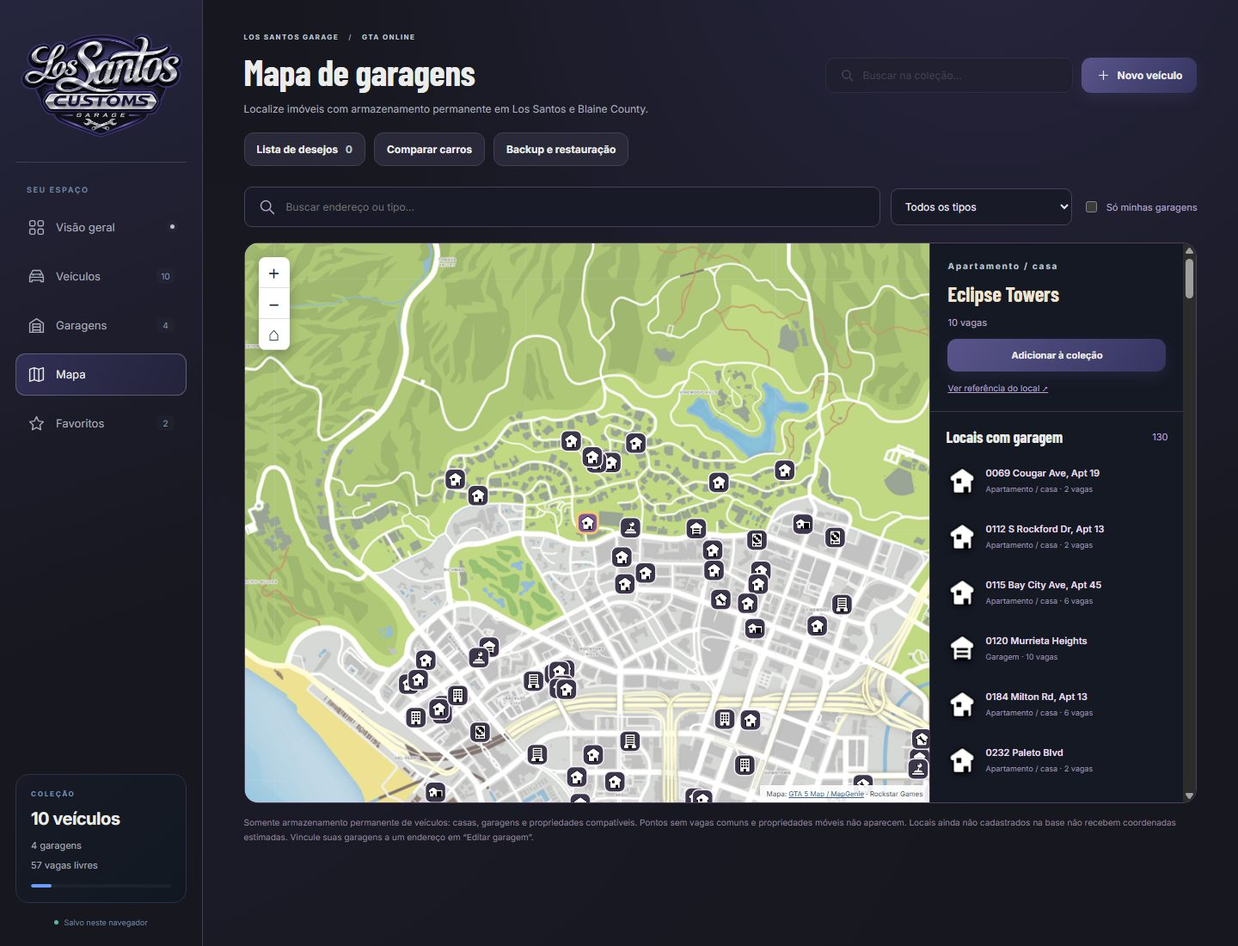
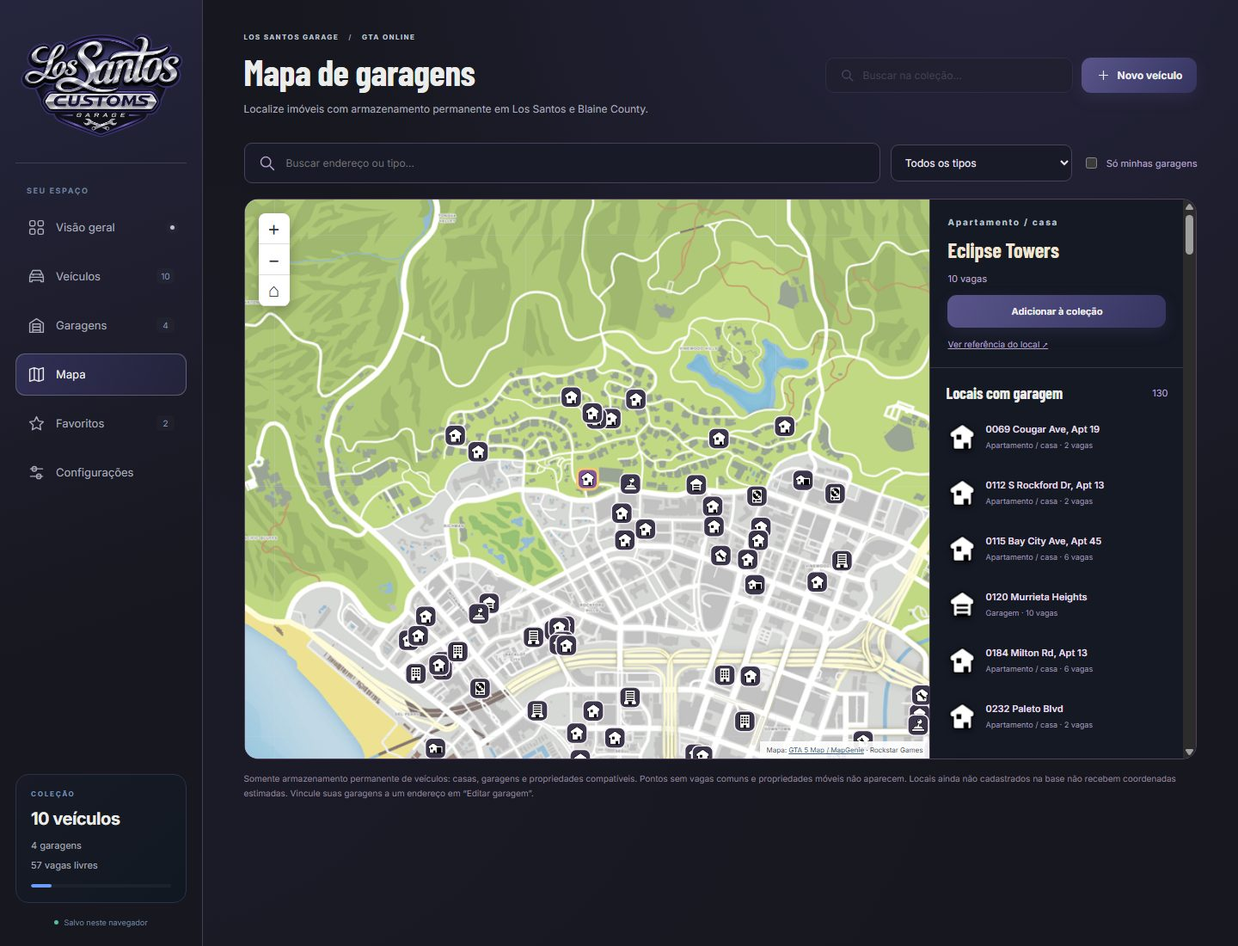
feat: centraliza backup e preferencias na pagina de configuracoes

diff --git a/collection-plus.js b/collection-plus.js
@@ -10,14 +10,20 @@ const downloadFile = (blob, name) => {
 function plusDialog(id, title, body) {
   document.body.insertAdjacentHTML("beforeend", `<dialog id="${id}" class="plus-dialog" aria-labelledby="${id}Title"><div class="dialog-form"><div class="dialog-heading"><h2 id="${id}Title">${title}</h2><button type="button" class="icon-button" data-plus-close="${id}" aria-label="Fechar">×</button></div>${body}</div></dialog>`);
 }
-$(".collection-toolbar").insertAdjacentHTML("beforebegin", `<div class="plus-bar"><label>Coleção / personagem<select id="collectionProfile" aria-label="Coleção ativa"></select></label><button type="button" class="secondary-button" id="manageProfiles">Gerenciar perfis</button><button type="button" class="secondary-button" id="undoCollection" disabled>Desfazer última alteração</button><button type="button" class="secondary-button" id="installApp" hidden>Instalar aplicativo</button><span id="offlineStatus" class="tool-hint" role="status"></span></div><section class="plus-notice" id="storageNotice" role="status" hidden><p id="storageNoticeText"></p><div class="plus-actions"><button type="button" class="secondary-button" id="downloadLocalCopy">Baixar minha cópia</button><button type="button" class="secondary-button" id="downloadStoredCopy">Baixar original salvo</button><button type="button" class="secondary-button" id="loadOtherTab">Carregar versão salva</button><button type="button" class="secondary-button" id="recoverCollection">Recuperar última versão válida</button></div></section><section class="plus-notice" id="backupReminder" hidden><p>Proteja esta coleção: baixe um backup. As cópias locais também podem ser apagadas ao limpar os dados do navegador.</p><button type="button" class="secondary-button" id="reminderBackup">Abrir backup</button></section>`);
+$("#settingsProfileControls").insertAdjacentHTML("beforeend", `<label>Coleção / personagem<select id="collectionProfile" aria-label="Coleção ativa"></select></label><button type="button" class="secondary-button" id="manageProfiles">Gerenciar perfis</button>`);
+$("#settingsAppControls").insertAdjacentHTML("beforeend", `<button type="button" class="secondary-button" id="installApp" hidden>Instalar aplicativo</button><span id="offlineStatus" class="tool-hint" role="status"></span>`);
+$(".vehicle-display-tools").insertAdjacentHTML("beforeend", `<button type="button" class="secondary-button" id="undoCollection" title="Desfazer última alteração na coleção" disabled>Desfazer</button>`);
+$(".collection-toolbar").insertAdjacentHTML("beforebegin", `<section class="plus-notice" id="storageNotice" role="status" hidden><p id="storageNoticeText"></p><button type="button" class="secondary-button" id="reviewStorageSettings">Revisar nas configurações</button></section>`);
+$("#settingsSection").append($("#backupPanel"));
+$("#backupPanel").hidden=false;
+$("#backupPanel .dialog-form").insertAdjacentHTML("afterbegin", `<section class="plus-notice" id="backupReminder" hidden><p>Proteja esta coleção: baixe um backup. As cópias locais também podem ser apagadas ao limpar os dados do navegador.</p></section><section class="plus-notice" id="settingsStorageActions" hidden><p id="settingsStorageText"></p><div class="plus-actions"><button type="button" class="secondary-button" id="downloadLocalCopy">Baixar minha cópia</button><button type="button" class="secondary-button" id="downloadStoredCopy">Baixar original salvo</button><button type="button" class="secondary-button" id="loadOtherTab">Carregar versão salva</button><button type="button" class="secondary-button" id="recoverCollection">Recuperar última versão válida</button></div></section>`);
 $(".collection-toolbar").insertAdjacentHTML("beforeend", `<button type="button" class="secondary-button" id="openGoals">Metas da coleção</button>`);
 $(".stats").insertAdjacentHTML("afterend", `<p class="plus-cost" id="actualCollectionCost"></p>`);
 $("#vehicleGrid").insertAdjacentHTML("beforebegin", `<div class="plus-filters"><label>Mostrar<select id="vehicleScope"><option value="all">Todos os veículos</option><option value="unassigned">Sem garagem</option><option value="duplicates">Modelos repetidos</option><option value="projects">Com projeto de tuning</option></select></label><label>Marca<select id="vehicleBrandFilter"><option value="all">Todas as marcas</option></select></label><label>Ordenar por<select id="vehicleSort"><option value="recent">Ordem de cadastro</option><option value="name">Nome (A–Z)</option><option value="brand">Marca (A–Z)</option><option value="price-desc">Preço de catálogo: maior</option><option value="price-asc">Preço de catálogo: menor</option><option value="paid-desc">Gasto registrado: maior</option></select></label></div>`);
 $("#garageDetailActions").insertAdjacentHTML("beforeend", `<button type="button" class="secondary-button" id="shareGarage">Compartilhar garagem</button>`);
 $("#detailsNotes").insertAdjacentHTML("afterend", `<section class="plus-cost"><h2>Compra e projeto de tuning</h2><p id="vehicleProjectSummary"></p><button type="button" class="secondary-button" id="openVehicleProject">Editar custos e modificações</button></section>`);
-$("#backupDialog .dialog-form").insertAdjacentHTML("beforeend", `<section class="backup-panel"><h3>Imagens e mapa offline</h3><p class="tool-hint">O aplicativo salva as imagens visitadas automaticamente. Para levar todo o catálogo e o mapa para um lugar sem internet, baixe as imagens agora (aproximadamente 110 MB). Isso não substitui o backup da coleção.</p><button type="button" class="secondary-button" id="prepareOffline">Baixar imagens para uso offline</button><p class="tool-hint" id="offlineDownloadStatus" role="status"></p></section>`);
-$("#backupDialog .dialog-form").insertAdjacentHTML("beforeend", `<section class="backup-panel"><h3>Versão local anterior</h3><p class="tool-hint">Confira a cópia anterior à última gravação, mesmo depois de reabrir o navegador. A prévia usa a confirmação de restauração acima. Uma nova gravação atualiza essa cópia.</p><button type="button" class="secondary-button" id="previewRecovery">Conferir versão anterior</button></section>`);
+$("#settingsOfflineControls").insertAdjacentHTML("beforeend", `<section class="backup-panel"><h3>Imagens e mapa offline</h3><p class="tool-hint">O aplicativo salva as imagens visitadas automaticamente. Para levar todo o catálogo e o mapa para um lugar sem internet, baixe as imagens agora (aproximadamente 110 MB). Isso não substitui o backup da coleção.</p><button type="button" class="secondary-button" id="prepareOffline">Baixar imagens para uso offline</button><p class="tool-hint" id="offlineDownloadStatus" role="status"></p></section>`);
+$("#backupPanel .dialog-form").insertAdjacentHTML("beforeend", `<section class="backup-panel"><h3>Versão local anterior</h3><p class="tool-hint">Confira a cópia anterior à última gravação, mesmo depois de reabrir o navegador. A prévia usa a confirmação de restauração acima. Uma nova gravação atualiza essa cópia.</p><button type="button" class="secondary-button" id="previewRecovery">Conferir versão anterior</button></section>`);
 
 plusDialog("profilesDialog", "Perfis da coleção", `<p class="tool-hint">Cada perfil tem seus próprios veículos, garagens, desejos e metas. O backup exporta o perfil ativo. Crie um perfil para cada personagem ou plataforma.</p><form id="profileForm"><label>Nome do novo perfil<input id="profileName" required maxlength="100" placeholder="Ex.: Personagem 2 · PS5"></label><button class="primary-button">Criar perfil vazio</button></form><form id="renameProfileForm"><label>Renomear perfil ativo<input id="profileRename" required maxlength="100"></label><button class="secondary-button">Salvar nome</button></form><p id="profileError" class="plus-error" role="status"></p>`);
 plusDialog("projectDialog", "Compra e projeto de tuning", `<h3 id="projectVehicleName"></h3><form id="purchaseForm"><label>Preço pago pelo veículo (GTA$)<input id="purchasePrice" type="number" min="0" max="10000000000" step="0.01" placeholder="Não informado"></label><label>Outras modificações já pagas (GTA$)<input id="modificationCost" type="number" min="0" max="10000000000" step="0.01" placeholder="Não informado"></label><p class="tool-hint">Inclua aqui gastos anteriores que não estão nas tarefas abaixo. Tarefas concluídas são somadas automaticamente; não registre o mesmo gasto duas vezes.</p><button class="primary-button">Salvar custos</button></form><p id="projectBudget" class="tool-hint" role="status"></p><h3>Modificações planejadas</h3><div id="projectTasks"></div><form id="taskForm"><label>Modificação<input id="taskName" required maxlength="150" placeholder="Ex.: Motor nível 4"></label><label>Orçamento (GTA$)<input id="taskCost" type="number" min="0" max="10000000000" step="0.01" required></label><button class="secondary-button">Adicionar modificação</button></form><p id="projectError" class="plus-error" role="status"></p>`);
@@ -42,8 +48,10 @@ function organizeVehicles(vehicles) {
   return result;
 }
 function renderStorageNotice() {
-  $("#storageNotice").hidden=!storageSession.blocked;
+  $("#storageNotice").hidden=!storageSession.blocked || currentFilter==="settings";
   $("#storageNoticeText").textContent=storageSession.notice;
+  $("#settingsStorageActions").hidden=!storageSession.blocked;
+  $("#settingsStorageText").textContent=storageSession.notice;
   $("#undoCollection").disabled=storageSession.blocked || !storageSession.undo.length;
 }
 function renderEnhancements() {
@@ -62,7 +70,7 @@ function renderEnhancements() {
   renderStorageNotice();
 }
 for (const id of ["vehicleScope","vehicleBrandFilter","vehicleSort"]) $("#"+id).addEventListener("change",renderVehicles);
-$("#reminderBackup").addEventListener("click",()=>$("#openBackup").click());
+$("#reviewStorageSettings").addEventListener("click",()=>{$('[data-filter="settings"]').click();$("#settingsStorageActions").scrollIntoView({block:"center"});});
 $("#exportBackup").addEventListener("click",()=>{try{localStorage.setItem(`${STORAGE_KEY}-backup-at`,String(Date.now()));renderEnhancements();}catch{}});
 function offlineImagePaths() {
   const paths=[...Object.values(VEHICLE_IMAGES),...Object.values(PROPERTY_IMAGES),...Object.values(INTERIOR_IMAGES)].map(i=>i.image);
@@ -96,7 +104,7 @@ function applyCollectionState(next) {
   $("#searchInput").value="";$("#categoryFilter").value="all";$("#garageThemeFilter").value="all";
   $("#vehicleScope").value="all";$("#vehicleBrandFilter").value="all";$("#vehicleSort").value="recent";
   if(typeof batchSelection!=="undefined") batchSelection.clear();
-  resetBackupPreview();render();
+  clearBackupSelection();render();
 }
 $("#loadOtherTab").addEventListener("click",()=>{
   try { const next=parseCollectionBackup(localStorage.getItem(STORAGE_KEY));storageSession.blocked=false;storageSession.notice="";storageSession.undo=[];storageSession.known.set(STORAGE_KEY,localStorage.getItem(STORAGE_KEY));applyCollectionState(next);showToast("Versão salva carregada."); }

diff --git a/index.html b/index.html
@@ -29,6 +29,7 @@
     <symbol id="ui-plus" viewBox="0 0 24 24"><path d="M12 5v14M5 12h14"/></symbol>
     <symbol id="ui-arrow" viewBox="0 0 24 24"><path d="M5 12h14m-6-6 6 6-6 6"/></symbol>
     <symbol id="ui-map" viewBox="0 0 24 24"><path d="m3 5 6-2 6 2 6-2v16l-6 2-6-2-6 2V5Zm6-2v16m6-14v16"/></symbol>
+    <symbol id="ui-settings" viewBox="0 0 24 24"><path d="M4 7h16M4 17h16"/><circle cx="9" cy="7" r="3"/><circle cx="15" cy="17" r="3"/></symbol>
   </defs></svg>
   <div class="app-shell">
     <aside class="sidebar">
@@ -42,6 +43,7 @@
         <button class="nav-item" data-filter="garages" aria-label="Garagens"><svg class="ui-icon"><use href="#ui-garage"/></svg><span class="nav-label">Garagens</span><span class="nav-count" id="navGarageCount">0</span></button>
         <button class="nav-item" data-filter="map" aria-label="Mapa de garagens"><svg class="ui-icon"><use href="#ui-map"/></svg><span class="nav-label">Mapa</span></button>
         <button class="nav-item" data-filter="favorites" aria-label="Favoritos"><svg class="ui-icon"><use href="#ui-star"/></svg><span class="nav-label">Favoritos</span><span class="nav-count" id="navFavoriteCount">0</span></button>
+        <button class="nav-item" data-filter="settings" aria-label="Configurações"><svg class="ui-icon"><use href="#ui-settings"/></svg><span class="nav-label">Configurações</span></button>
       </nav>
 
       <div class="sidebar-card">
@@ -72,7 +74,6 @@
       <div class="collection-toolbar" role="group" aria-label="Ferramentas da coleção">
         <button type="button" class="secondary-button" id="openWishlist">Lista de desejos <span id="wishlistCount">0</span></button>
         <button type="button" class="secondary-button" id="openCompare">Comparar carros</button>
-        <button type="button" class="secondary-button" id="openBackup">Backup e restauração</button>
       </div>
 
       <section id="lsgBrandBanner" class="lsg-brand-banner" aria-label="Los Santos Garage"><div class="lsg-wordmark"><img class="lsg-banner-logo" src="assets/logo-los-santos-customs.png" alt="Los Santos Customs Garage" width="1536" height="1024"></div><div class="lsg-brand-caption"><span>LOS SANTOS · SAN ANDREAS</span><h2>Sua coleção.<br>Cada carro no seu lugar.</h2><small>Garagens, projetos e cultura automotiva.</small></div><span class="lsg-banner-stripe" aria-hidden="true"></span></section>
@@ -127,6 +128,21 @@
         </div>
       </section>
       <section id="mapSection" class="property-map-section" aria-label="Mapa de propriedades com garagem" hidden></section>
+      <section id="settingsSection" class="settings-page" aria-label="Configurações" hidden>
+        <div class="settings-grid">
+          <section class="settings-card" aria-labelledby="settingsProfilesTitle">
+            <p class="eyebrow">SUA COLEÇÃO</p><h2 id="settingsProfilesTitle">Perfis e personagens</h2>
+            <p class="tool-hint">Separe suas garagens por personagem ou plataforma. Cada perfil mantém sua própria coleção.</p>
+            <div id="settingsProfileControls" class="plus-bar"></div>
+          </section>
+          <section class="settings-card" aria-labelledby="settingsAppTitle">
+            <p class="eyebrow">NO SEU DISPOSITIVO</p><h2 id="settingsAppTitle">Aplicativo e acesso offline</h2>
+            <p class="tool-hint">Instale para abrir direto pela tela inicial. Você também pode usar a opção de instalação no menu do navegador.</p>
+            <div id="settingsAppControls" class="plus-actions"></div>
+            <div id="settingsOfflineControls"></div>
+          </section>
+        </div>
+      </section>
     </main>
   </div>
 
@@ -262,12 +278,12 @@
       <button type="submit" id="confirmBatchMove" class="primary-button" disabled>Confirmar transferência</button>
     </form>
   </dialog>
-  <dialog id="backupDialog" class="collection-dialog" aria-labelledby="backupTitle">
-    <div class="dialog-form"><div class="dialog-heading"><div><p class="eyebrow">SUA COLEÇÃO COM VOCÊ</p><h2 id="backupTitle">Backup e restauração</h2></div><button type="button" class="icon-button" data-close="backupDialog" aria-label="Fechar backup">×</button></div>
+  <section id="backupPanel" class="settings-card settings-backup" aria-labelledby="backupTitle" hidden>
+    <div class="dialog-form"><div><p class="eyebrow">SUA COLEÇÃO COM VOCÊ</p><h2 id="backupTitle">Backup e restauração</h2></div>
       <section class="backup-panel"><h3>Salvar uma cópia</h3><p class="tool-hint">Baixe garagens, tags, veículos, posições, favoritos, personalizações e lista de desejos em um arquivo JSON.</p><button type="button" class="primary-button" id="exportBackup">Baixar backup</button></section>
       <section class="backup-panel"><h3>Restaurar uma cópia</h3><p class="tool-hint">A restauração substitui a coleção deste navegador. Baixe um backup atual antes de continuar. Escolha um JSON de até 10 MB; o arquivo é lido apenas no seu dispositivo.</p><label>Arquivo de backup<input id="backupFile" type="file" accept=".json,application/json"></label><p id="backupPreview" class="tool-hint" role="status">Escolha um arquivo para conferir os dados antes de restaurar.</p><label class="backup-confirm"><input id="confirmBackupReplace" type="checkbox" disabled> Entendo que os dados atuais serão substituídos.</label><button type="button" id="restoreBackup" class="primary-button" disabled>Restaurar coleção</button></section>
     </div>
-  </dialog>
+  </section>
   <script src="assets/vehicle-catalog.js"></script>
   <script src="assets/vehicle-reference.js"></script>
   <script src="assets/wheel-catalog.js"></script>

diff --git a/tests/collection-check.js b/tests/collection-check.js
@@ -110,7 +110,7 @@ async function checkCollectionTools(check) {
     const collided=structuredClone(backup);collided.data.vehicles[1].parking=collided.data.vehicles[0].parking;
     const repaired=parseCollectionBackup(JSON.stringify(collided));
     check('restauração resolve colisão de vagas sem perder veículos',repaired.vehicles.length===data.vehicles.length && new Set(repaired.vehicles.filter(vehicle=>vehicle.garageId==='tools-c').map(vehicle=>vehicle.parking.slot)).size===2);
-    $('#openBackup').click();
+    $('[data-filter="settings"]').click();
     const beforeImport=JSON.stringify(data);
     await previewBackupFile(new File([JSON.stringify(backup)],'colecao.json',{type:'application/json'}));
     check('prévia de arquivo válido não altera dados',JSON.stringify(data)===beforeImport && pendingCollectionBackup && !$('#confirmBackupReplace').disabled && $('#restoreBackup').disabled);
@@ -124,14 +124,14 @@ async function checkCollectionTools(check) {
     await previewBackupFile(new File([JSON.stringify(backup)],'colecao.json',{type:'application/json'}));
     $('#confirmBackupReplace').checked=true;$('#confirmBackupReplace').dispatchEvent(new Event('change'));
     Storage.prototype.setItem=function(key,value){if(key===STORAGE_KEY)throw new DOMException('Full','QuotaExceededError');return originalSetItem.call(this,key,value);};
-    try {check('falha de armazenamento na restauração preserva coleção e prévia',!restoreCollectionBackup() && JSON.stringify(data)===beforeImport && $('#backupDialog').open && pendingCollectionBackup);}finally{Storage.prototype.setItem=originalSetItem;}
-    check('backup cabe na tela',fits('#backupDialog'));
-    check('restaurar confirmação válida aplica dados e fecha diálogo',restoreCollectionBackup() && !$('#backupDialog').open && JSON.parse(localStorage.getItem(STORAGE_KEY)).vehicles.length===backup.data.vehicles.length);
+    try {check('falha de armazenamento na restauração preserva coleção e prévia',!restoreCollectionBackup() && JSON.stringify(data)===beforeImport && !$('#settingsSection').hidden && pendingCollectionBackup);}finally{Storage.prototype.setItem=originalSetItem;}
+    check('backup nas configurações cabe na tela',fits('#backupPanel'));
+    check('restaurar confirmação válida aplica dados e retorna à coleção',restoreCollectionBackup() && $('#settingsSection').hidden && JSON.parse(localStorage.getItem(STORAGE_KEY)).vehicles.length===backup.data.vehicles.length);
     const exported=[];const createUrl=URL.createObjectURL, revokeUrl=URL.revokeObjectURL, click=HTMLAnchorElement.prototype.click;
     URL.createObjectURL=function(blob){exported.push(blob);return createUrl.call(URL,blob);};HTMLAnchorElement.prototype.click=function(){exported.push(this.download);};
     try {$('#exportBackup').click();check('exportação cria JSON baixável com a coleção completa',exported[0] instanceof Blob && exported[1].startsWith('los-santos-garage-') && JSON.parse(await exported[0].text()).data.vehicles.length===data.vehicles.length);}finally{URL.createObjectURL=createUrl;URL.revokeObjectURL=revokeUrl;HTMLAnchorElement.prototype.click=click;}
   } finally {
-    for(const id of ['wishlistDialog','compareDialog','batchMoveDialog','backupDialog','vehicleDialog']) if($("#"+id).open)$("#"+id).close();
+    for(const id of ['wishlistDialog','compareDialog','batchMoveDialog','vehicleDialog']) if($("#"+id).open)$("#"+id).close();
     if(!$('#vehicleDetailsDialog').hidden)closeVehiclePortfolio();
     data=previous;selectedGarage=previousGarage;currentFilter=previousFilter;batchSelection.clear();
     $('#garageThemeFilter').value='all';$('#searchInput').value='';$('#categoryFilter').value='all';

diff --git a/tests/collection-plus-check.js b/tests/collection-plus-check.js
@@ -11,6 +11,13 @@ async function checkCollectionPlus(check) {
       {id:"plus-v3",name:"Adder",catalogId:"adder",brand:"Truffade",category:"Super",garageId:"plus-a"},
       {id:"plus-v4",name:"Sedã customizado",brand:"Minha marca",category:"Sedã",garageId:null}
     ]};selectedGarage=null;currentFilter="vehicles";saveData();
+    check("coleção sem controles de configuração no cabeçalho",!$('.collection-toolbar #collectionProfile') && !$('.topbar #installApp') && $('#settingsSection').hidden && !$('#backupPanel').getClientRects().length && !$('#backupReminder').getClientRects().length);
+    $('[data-filter="settings"]').click();
+    check("configurações reúnem perfis aplicativo e backup",!$('#settingsSection').hidden && $('#settingsSection').contains($('#collectionProfile')) && $('#settingsSection').contains($('#installApp')) && $('#settingsSection').contains($('#backupPanel')) && $('.collection-toolbar').hidden && $('.top-actions').hidden && $('#vehicleSection').hidden && document.activeElement.id==='pageTitle');
+    check("configurações cabem na tela",document.documentElement.scrollWidth<=innerWidth+1 && $('#settingsSection').scrollWidth<=$('#settingsSection').clientWidth+1);
+    const stalePreview=previewBackupFile({name:'anterior.json',size:10,text:()=>new Promise(resolve=>setTimeout(()=>resolve(JSON.stringify(makeCollectionBackup())),30))});
+    $('[data-filter="vehicles"]').click();await stalePreview;
+    check("sair das configurações invalida restauração pendente",pendingCollectionBackup===null && $('#restoreBackup').disabled && $('#settingsSection').hidden && !$('.top-actions').hidden);
     $("#searchInput").value="seda";renderVehicles();check("busca ignora acentos",$("#vehicleResultCount").textContent==="1");$("#searchInput").value="";
     $("#vehicleScope").value="unassigned";renderVehicles();check("filtro sem garagem",$$('.vehicle-card').length===2);
     $("#vehicleScope").value="duplicates";renderVehicles();check("filtro de modelos repetidos",$$('.vehicle-card').length===2 && $$('.vehicle-card').every(c=>c.getAttribute('aria-label').includes('Zentorno')));
@@ -44,9 +51,9 @@ async function checkCollectionPlus(check) {
     window.dispatchEvent(new StorageEvent('storage',{key,newValue:foreignRaw}));
     check("outra aba bloqueia gravação",!saveData() && localStorage.getItem(key)===foreignRaw && !$('#storageNotice').hidden);
     $('#loadOtherTab').click();check("carregar outra aba resolve conflito",data.vehicles[0].name==='Versão da outra aba' && !storageSession.blocked);
-    $('#openBackup').click();$('#previewRecovery').click();
+    $('[data-filter="settings"]').click();$('#previewRecovery').click();
     const previewDeadline=Date.now()+5000;while(!pendingCollectionBackup && Date.now()<previewDeadline)await new Promise(resolve=>setTimeout(resolve,20));
-    check("versão anterior pode ser conferida sem substituir coleção",pendingCollectionBackup && $('#restoreBackup').disabled && data.vehicles[0].name==='Versão da outra aba');$('#backupDialog').close();
+    check("versão anterior pode ser conferida sem substituir coleção",pendingCollectionBackup && $('#restoreBackup').disabled && data.vehicles[0].name==='Versão da outra aba');$('[data-filter="vehicles"]').click();
     // Malformed stored data never silently replaces a collection.
     localStorage.setItem(`${key}-recovery`,JSON.stringify(data));localStorage.setItem(key,'{"garages":{}}');
     const recovered=loadData();check("armazenamento malformado não quebra inicialização",recovered.vehicles.length===4 && storageSession.blocked);

diff --git a/collection-plus.css b/collection-plus.css
@@ -22,4 +22,31 @@
 .plus-dialog canvas { width:100%;height:auto;border-radius:12px; }
 .plus-error { color:#ffb1b9;min-height:1.4em; }
 .plus-dialog .tool-hint { line-height:1.6; }
+.settings-page { display:grid;gap:24px;max-width:1200px; }
+.settings-grid { display:grid;grid-template-columns:repeat(2,minmax(0,1fr));gap:24px;align-items:start; }
+.settings-card { min-width:0;padding:28px;border:1px solid var(--line);border-radius:16px;background:var(--surface); }
+.settings-card h2 { margin:6px 0 12px;font-size:24px; }
+.settings-card>.tool-hint { margin-bottom:20px; }
+.settings-card .plus-bar { align-items:flex-end; }
+.settings-card .plus-bar label { flex:1 1 180px; }
+.settings-card .plus-bar select { width:100%; }
+.settings-card .plus-actions { align-items:flex-start; }
+.settings-card .backup-panel { margin-top:20px;align-content:start; }
+.settings-card button:disabled { opacity:.45;cursor:not-allowed; }
+.settings-backup .dialog-form { padding:0;display:grid;grid-template-columns:repeat(2,minmax(0,1fr));gap:24px;align-items:start; }
+.settings-backup .dialog-form>div,.settings-backup .plus-notice { grid-column:1/-1; }
+.settings-backup .backup-panel { margin:0;min-width:0; }
+.settings-backup label { display:grid;gap:9px;font-size:12px;color:var(--silver);min-width:0; }
+.settings-backup input:not([type=checkbox]) { width:100%;min-width:0;max-width:100%;padding:12px;border:1px solid var(--line);border-radius:9px;background:var(--graphite);color:var(--ice); }
+.settings-backup .backup-confirm { display:flex;flex-direction:row;align-items:flex-start;line-height:1.6; }
+.settings-backup input[type=checkbox] { width:18px;height:18px;margin:2px 0 0;padding:0;flex-shrink:0;accent-color:var(--violet); }
+.settings-card button { max-width:100%;white-space:normal; }
+@media(max-width:760px) {
+  .settings-grid,.settings-backup .dialog-form { grid-template-columns:minmax(0,1fr); }
+  .settings-card { padding:20px; }
+  .nav { grid-template-columns:repeat(6,minmax(0,1fr)); }
+  .nav-item[data-filter=settings] .nav-label { font-size:0; }
+  .nav-item[data-filter=settings] .nav-label::after { content:"Config.";font-size:9px; }
+  .collection-toolbar { margin-top:0; }
+}
 @media(max-width:600px) { .plus-filters { align-items:stretch; } .plus-filters label { flex:1 1 130px; } .plus-bar { align-items:stretch; } .plus-bar label { flex:1 1 100%; } .plus-bar>button { flex:1 1 120px;font-size:.8rem;padding:10px; } .plus-actions button { flex:1 1 120px; } .collection-toolbar { display:grid;grid-template-columns:repeat(2,minmax(0,1fr)); } .collection-toolbar>button { width:100%;font-size:.75rem;white-space:normal;padding:10px;min-height:46px; } }

diff --git a/app.js b/app.js
@@ -210,14 +210,18 @@ function render() {
   $("#lsgBrandBanner").hidden = currentFilter !== "all";
   $(".stats").hidden = currentFilter !== "all";
   $("#garageSection").hidden = !!selectedGarage || (currentFilter !== "all" && currentFilter !== "garages");
-  $("#vehicleSection").hidden = currentFilter === "map" || (currentFilter === "garages" && !selectedGarage);
+  $("#vehicleSection").hidden = ["map","settings"].includes(currentFilter) || (currentFilter === "garages" && !selectedGarage);
   $("#mapSection").hidden = currentFilter !== "map";
+  $("#settingsSection").hidden = currentFilter !== "settings";
+  $(".collection-toolbar").hidden = ["map","settings"].includes(currentFilter);
+  $(".top-actions").hidden = currentFilter === "settings";
   const pages = {
     all: ["Visão geral", "Sua coleção, organizada do seu jeito."],
     vehicles: ["Seus veículos", "Encontre cada carro e o lugar que ele chama de casa."],
     garages: ["Suas garagens", "Todas as propriedades. Cada vaga sob controle."],
     favorites: ["Favoritos", "Os que merecem um lugar especial na coleção."],
-    map: ["Mapa de garagens", "Localize imóveis com armazenamento permanente em Los Santos e Blaine County."]
+    map: ["Mapa de garagens", "Localize imóveis com armazenamento permanente em Los Santos e Blaine County."],
+    settings: ["Configurações", "Gerencie seus perfis, proteja sua coleção e prepare o acesso offline."]
   };
   $("#pageTitle").textContent = pages[currentFilter][0];
   $("#pageDescription").textContent = pages[currentFilter][1];
@@ -527,10 +531,12 @@ $("#categoryFilter").addEventListener("change", renderVehicles);
 $$('[data-close]').forEach(button => button.addEventListener("click", () => $("#" + button.dataset.close).close()));
 
 $$('.nav-item').forEach(item => item.addEventListener("click", () => {
+  if(currentFilter === "settings" && item.dataset.filter !== "settings") clearBackupSelection();
   currentFilter = item.dataset.filter;
   selectedGarage = null;
   setActiveNav(currentFilter);
   render();
+  if(currentFilter === "settings") { window.scrollTo(0,0); $("#pageTitle").focus({preventScroll:true}); }
   if (currentFilter === "vehicles" || currentFilter === "favorites") $("#vehicleSection").scrollIntoView({ behavior: "smooth", block: "start" });
 }));
 

diff --git a/collection-tools.js b/collection-tools.js
@@ -298,6 +298,12 @@ function resetBackupPreview() {
   $("#confirmBackupReplace").disabled=true;
   $("#restoreBackup").disabled=true;
 }
+function clearBackupSelection() {
+  backupReadSequence++;
+  resetBackupPreview();
+  $("#backupFile").value="";
+  $("#backupPreview").textContent="Escolha um arquivo para conferir os dados antes de restaurar.";
+}
 async function previewBackupFile(file) {
   const sequence=++backupReadSequence;
   resetBackupPreview();
@@ -323,10 +329,9 @@ function restoreCollectionBackup() {
   $("#searchInput").value="";$("#categoryFilter").value="all";$("#garageThemeFilter").value="all";
   for(const id of ["vehicleScope","vehicleBrandFilter"])if($("#"+id))$("#"+id).value="all";
   setActiveNav("all");render();
-  $("#backupDialog").close();resetBackupPreview();
+  clearBackupSelection();
   return true;
 }
-$("#openBackup").addEventListener("click",()=>{$("#backupFile").value="";backupReadSequence++;resetBackupPreview();$("#backupPreview").textContent="Escolha um arquivo para conferir os dados antes de restaurar.";$("#backupDialog").showModal();});
 $("#exportBackup").addEventListener("click",()=>{
   const blob=new Blob([JSON.stringify(makeCollectionBackup(),null,2)],{type:"application/json"});
   const url=URL.createObjectURL(blob),link=document.createElement("a");
@@ -339,5 +344,4 @@ $("#exportBackup").addEventListener("click",()=>{
 $("#backupFile").addEventListener("change",event=>previewBackupFile(event.target.files[0]));
 $("#confirmBackupReplace").addEventListener("change",()=>{$("#restoreBackup").disabled=!pendingCollectionBackup || !$("#confirmBackupReplace").checked;});
 $("#restoreBackup").addEventListener("click",restoreCollectionBackup);
-$("#backupDialog").addEventListener("close",()=>{backupReadSequence++;resetBackupPreview();});
 render();

diff --git a/README.md b/README.md
@@ -32,6 +32,10 @@ Cadastros já salvos são preservados nas atualizações.
 
 ## Recursos
 
+- **Configurações:** abra pelo menu lateral ou pela navegação inferior no celular.
+  A página reúne perfis, instalação do aplicativo, imagens offline, backup e recuperação.
+  Os lembretes de backup ficam nessa página; a coleção mantém os atalhos de desejos,
+  comparação e metas. O botão **Desfazer** fica junto aos controles dos veículos.
 - **Perfis por personagem/plataforma:** selecione a coleção ativa ou crie e renomeie
   perfis independentes. Os dados existentes ficam em **Minha coleção**, sem migração
   destrutiva. Cada backup JSON contém apenas o perfil ativo.
@@ -56,7 +60,8 @@ Cadastros já salvos são preservados nas atualizações.
 - **Aplicativo e offline:** no site publicado, instale pelo botão oferecido pelo
   navegador ou pelo menu do dispositivo. Após a primeira carga completa, a interface
   funciona sem internet e mantém os cadastros locais. Imagens visitadas são guardadas;
-  em **Backup e restauração**, baixe também todas as imagens e o mapa para uso offline.
+  em **Configurações → Aplicativo e acesso offline**, baixe também todas as imagens
+  e o mapa para uso offline.
   Fontes externas usam as alternativas locais quando indisponíveis. Atualizações do
   aplicativo são ativadas depois de fechar as abas da versão anterior.
 - **Lembrete de backup:** coleções com veículos recebem um lembrete quando não houve
@@ -143,10 +148,12 @@ Veja também as telas de [lista de desejos](docs/images/desejos.jpg) e
 
 ### Leve sua coleção para outro navegador
 
-Em **Backup e restauração**, baixe o JSON da coleção ou escolha um arquivo
+Em **Configurações → Backup e restauração**, baixe o JSON da coleção ou escolha um arquivo
 para conferir o resumo. A restauração substitui os dados atuais após confirmação.
 
 ![Backup com prévia da coleção antes de restaurar os dados](docs/images/backup.jpg)
+
+![Página de configurações com perfis, aplicativo e opções de backup](docs/images/configuracoes.jpg)
 
 ## Fontes das imagens
 
